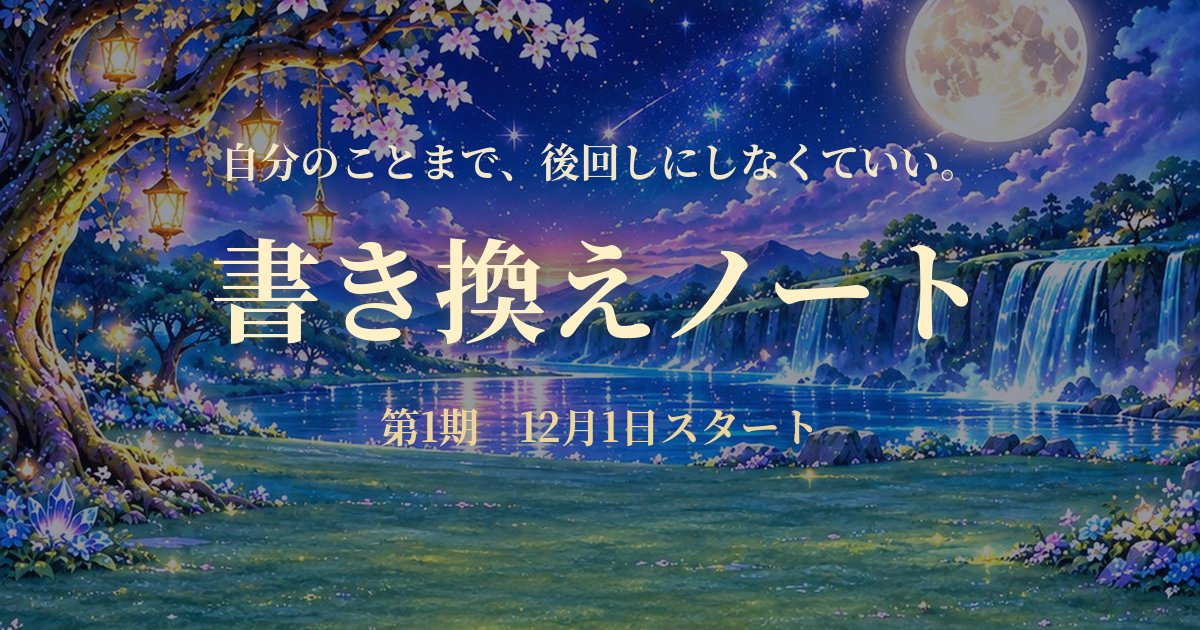
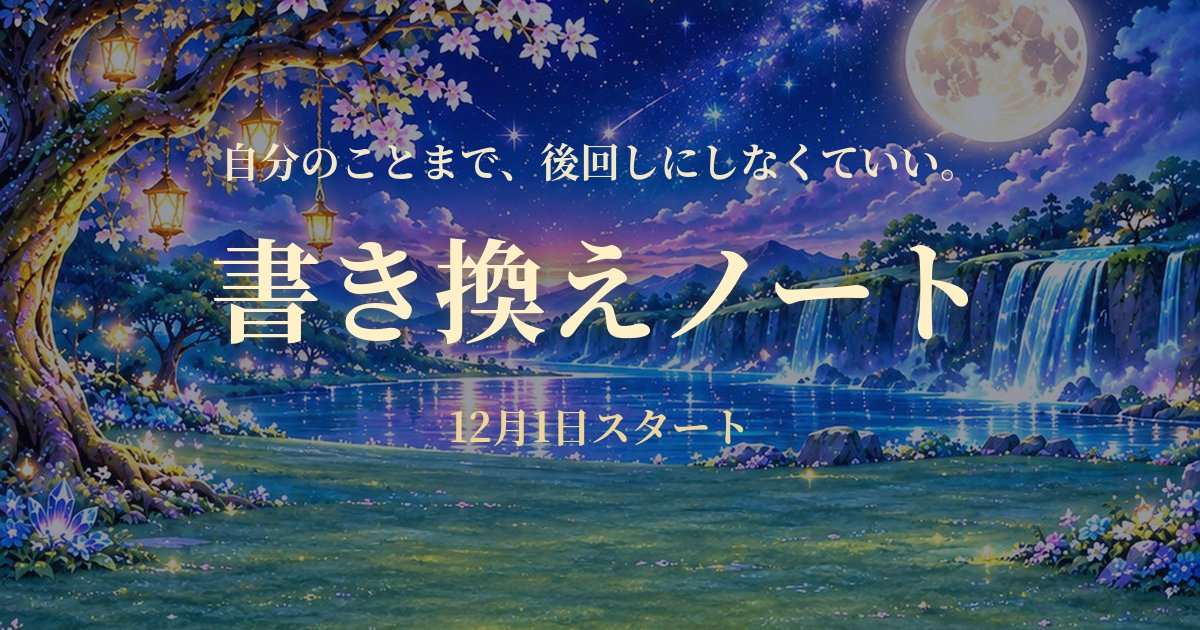
書き換えノートLP：タイトルから「第1期」を外す・動きを追加
Claude-Session: https://claude.ai/code/session_01PDibZtF5ddKHKAag87hAUW

Changed region(s): [[0.3083, 0.6333, 0.6783, 0.7238]]

diff --git a/kakikae-lp/index.html b/kakikae-lp/index.html
@@ -3,15 +3,16 @@
 <head>
 <meta charset="utf-8">
 <meta name="viewport" content="width=device-width, initial-scale=1, viewport-fit=cover">
-<title>書き換えノート 第1期｜12月1日から使える、あなたを取り戻すアプリ</title>
+<title>書き換えノート｜12月1日から使える、あなたを取り戻すアプリ</title>
 <meta name="description" content="毎日3行だけ書くアプリ「書き換えノート」。書いた3行にゆわのひと言が届き、毎日ひとつ「今日の小さなケア」が届きます。12月1日開始・申込締切11月30日。">
 <meta property="og:type" content="website">
-<meta property="og:title" content="書き換えノート 第1期｜あなたを取り戻すアプリ">
+<meta property="og:title" content="書き換えノート｜あなたを取り戻すアプリ">
 <meta property="og:description" content="1日たった3行。書いた3行に、ゆわのひと言が届きます。12月1日開始。">
 <meta property="og:image" content="https://yuwa-bloom-realm.github.io/next-story/kakikae-lp/images/ogp.jpg">
 <meta property="og:url" content="https://yuwa-bloom-realm.github.io/next-story/kakikae-lp/">
 <meta name="twitter:card" content="summary_large_image">
 <meta name="theme-color" content="#141733">
+<script>document.documentElement.classList.add('js')</script>
 <script src="../kakikae-note/config.js"></script>
 <style>
   :root{
@@ -111,6 +112,41 @@
   .done{display:none;text-align:center}
   .done .big{font-size:20px;color:var(--gold-d);margin-bottom:10px}
 
+
+  /* ---------- 動き ---------- */
+  .twinkles{position:absolute;inset:0;pointer-events:none}
+  .twinkles i{position:absolute;font-style:normal;font-size:var(--s);color:#fff3c9;text-shadow:0 0 8px rgba(255,236,170,.95),0 0 16px rgba(236,212,154,.6);
+    opacity:0;animation:twinkle 3.6s ease-in-out var(--d) infinite}
+  @keyframes twinkle{0%,100%{opacity:0;transform:scale(.4) rotate(0)}45%{opacity:1;transform:scale(1.1) rotate(20deg)}60%{opacity:.85;transform:scale(.9) rotate(30deg)}}
+  .js .page{opacity:0;transform:translateY(28px);transition:opacity .9s ease,transform .9s ease}
+  .js .page.show{opacity:1;transform:none}
+  .g .icon.sky{position:relative;overflow:hidden}
+  .sky b{position:absolute;width:3px;height:3px;border-radius:50%;background:#fff3c9;box-shadow:0 0 6px 1px rgba(255,236,170,.9);
+    opacity:0;transform:scale(.2);transition:opacity .6s ease,transform .6s ease}
+  .sky b.on{opacity:1;transform:scale(1)}
+  .sky b.big{width:5px;height:5px}
+  .sky.fade b{opacity:0;transition:opacity 1.2s ease}
+  .float{animation:floaty 3.6s ease-in-out infinite}
+  .float.f2{animation-delay:-1.8s}
+  @keyframes floaty{0%,100%{transform:translateY(0)}50%{transform:translateY(-5px)}}
+  .door-wrap{position:relative;display:block;width:84px;height:84px;border-radius:8px;overflow:hidden;cursor:pointer;
+    animation:doorGlow 2.8s ease-in-out infinite}
+  .door-wrap img{width:84px;height:84px;object-fit:cover}
+  .door-wrap::after{content:"";position:absolute;inset:-30%;background:linear-gradient(115deg,transparent 35%,rgba(255,240,190,.55) 50%,transparent 65%);
+    transform:translateX(-70%);animation:doorShine 3.4s ease-in-out infinite}
+  .door-wrap.tap{animation:doorTap .7s ease}
+  @keyframes doorGlow{0%,100%{box-shadow:0 0 0 1px rgba(201,164,92,.5),0 0 6px rgba(236,212,154,.35)}50%{box-shadow:0 0 0 1px rgba(236,212,154,.9),0 0 18px rgba(255,226,150,.85)}}
+  @keyframes doorShine{0%,55%{transform:translateX(-70%)}85%,100%{transform:translateX(70%)}}
+  @keyframes doorTap{0%{transform:scale(1);filter:brightness(1)}40%{transform:scale(1.08);filter:brightness(1.5)}100%{transform:scale(1);filter:brightness(1)}}
+  .cta{position:relative;overflow:hidden}
+  .cta::after{content:"";position:absolute;top:0;bottom:0;left:-40%;width:30%;transform:skewX(-20deg);
+    background:linear-gradient(90deg,transparent,rgba(255,255,255,.85),transparent);animation:ctaShine 4.5s ease-in-out infinite}
+  @keyframes ctaShine{0%,70%{left:-40%}88%,100%{left:120%}}
+  @media (prefers-reduced-motion: reduce){
+    .twinkles i,.float,.door-wrap,.door-wrap::after,.cta::after{animation:none}
+    .twinkles i{opacity:.8}
+    .js .page{opacity:1;transform:none;transition:none}
+  }
   footer{text-align:center;color:rgba(236,212,154,.7);font-size:12px;letter-spacing:.1em;padding:14px 0 30px}
 </style>
 </head>
@@ -120,6 +156,13 @@
   <!-- トップ -->
   <header class="hero">
     <div class="stars"></div>
+    <div class="twinkles" aria-hidden="true">
+      <i style="left:6%;top:9%;--d:0s;--s:16px">✦</i><i style="left:90%;top:6%;--d:.8s;--s:12px">✦</i>
+      <i style="left:82%;top:34%;--d:1.6s;--s:18px">✦</i><i style="left:10%;top:42%;--d:2.3s;--s:11px">✦</i>
+      <i style="left:50%;top:3%;--d:1.1s;--s:10px">✧</i><i style="left:94%;top:60%;--d:.4s;--s:13px">✧</i>
+      <i style="left:3%;top:70%;--d:1.9s;--s:14px">✧</i><i style="left:70%;top:82%;--d:2.7s;--s:10px">✦</i>
+      <i style="left:28%;top:88%;--d:.2s;--s:12px">✦</i><i style="left:38%;top:20%;--d:3.1s;--s:9px">✧</i>
+    </div>
     <img class="top-img" id="topImg" src="images/top.jpg" alt="書き換えノート　自分のことまで、後回しにしなくていい。来年の私に、12月から魔法をかけよう。"
       onerror="this.remove();document.getElementById('fallback').hidden=false">
     <div class="fallback" id="fallback" hidden>
@@ -128,7 +171,7 @@
       <p class="sub">来年の私に、12月から魔法をかけよう。</p>
     </div>
     <p class="sub" style="margin-top:22px">12月1日から使える、あなただけの、<br>あなたを取り戻すアプリ。</p>
-    <span class="badge">第1期　12月1日（火）スタート</span>
+    <span class="badge">12月1日（火）スタート</span>
   </header>
 
   <!-- 問いかけ -->
@@ -166,10 +209,10 @@
     <p class="orn">✦ ✦ ✦</p>
     <h2>続けたくなる、しかけ</h2>
     <div class="gimmick">
-      <div class="g"><div class="icon">✦</div><p>書いた日が増えるたび、星空に星が増えていく。</p></div>
-      <div class="g"><img src="../kakikae-note/images/puzzle_01.png" alt="" loading="lazy"><p>パズルが完成するたび、絵の中の住人から手紙が届く（全16通）。</p></div>
-      <div class="g"><img src="../kakikae-note/images/town/b02.webp" alt="" loading="lazy" style="object-fit:contain;background:radial-gradient(ellipse at 50% 120%,#2e3576,#141733)"><p>パズルの完成で建物が増えて、「あなただけの小さな街」が育っていく。</p></div>
-      <div class="g"><img src="../kakikae-note/images/doors/door_01.png" alt="" loading="lazy"><p>節目の日には「秘密の扉」が開いて、短い物語と宝物が待っている。</p></div>
+      <div class="g"><div class="icon sky" id="skyIcon" aria-hidden="true"></div><p>書いた日が増えるたび、星空に星が増えていく。</p></div>
+      <div class="g"><img class="float" src="../kakikae-note/images/puzzle_01.png" alt="" loading="lazy"><p>パズルが完成するたび、絵の中の住人から手紙が届く（全16通）。</p></div>
+      <div class="g"><img class="float f2" src="../kakikae-note/images/town/b02.webp" alt="" loading="lazy" style="object-fit:contain;background:radial-gradient(ellipse at 50% 120%,#2e3576,#141733)"><p>パズルの完成で建物が増えて、「あなただけの小さな街」が育っていく。</p></div>
+      <div class="g"><span class="door-wrap" id="doorWrap"><img src="../kakikae-note/images/doors/door_01.png" alt="" loading="lazy"></span><p>節目の日には「秘密の扉」が開いて、短い物語と宝物が待っている。</p></div>
     </div>
     <p class="center" style="margin-top:18px"><span class="em">休んでも、集めたものは消えません。</span></p>
   </section>
@@ -235,7 +278,7 @@
       <p class="soft" style="font-size:14px">メールが届かないときは、迷惑メールのフォルダも見てみてください。</p>
     </div>
     <div class="done" id="closed">
-      <p class="big">第1期の受付は終了しました</p>
+      <p class="big">今回の受付は終了しました</p>
       <p>たくさんのお申し込み、ありがとうございました。<br>次回のご案内を、楽しみに待っていてくださいね。</p>
     </div>
   </section>
@@ -247,6 +290,50 @@
 (function(){
   const $ = s => document.querySelector(s);
   const CFG = window.KAKIKAE_CONFIG || {};
+
+
+  // ---------- 動き ----------
+  document.documentElement.classList.add('js');
+  const reduce = window.matchMedia('(prefers-reduced-motion: reduce)').matches;
+  // セクションがふわっと浮かぶ
+  const pages = Array.from(document.querySelectorAll('.page'));
+  if (reduce) pages.forEach(p => p.classList.add('show'));
+  else {
+    // 画面に入ったら表示（どのブラウザでも必ず出るように、スクロールと時間の両方で確かめる）
+    const check = () => {
+      const h = window.innerHeight || document.documentElement.clientHeight;
+      pages.forEach(p => { if (!p.classList.contains('show') && p.getBoundingClientRect().top < h * 0.9) p.classList.add('show'); });
+    };
+    window.addEventListener('scroll', check, { passive: true });
+    window.addEventListener('resize', check);
+    window.addEventListener('load', check);
+    requestAnimationFrame(check); setInterval(check, 700);
+  }
+  // 星空：星がひとつずつ増えていく
+  const sky = $('#skyIcon');
+  if (sky) {
+    const N = 22, stars = [];
+    let seed = 7; const rnd = () => (seed = (seed * 9301 + 49297) % 233280) / 233280;
+    for (let i = 0; i < N; i++) {
+      const b = document.createElement('b');
+      b.style.left = (8 + rnd() * 84) + '%'; b.style.top = (8 + rnd() * 84) + '%';
+      if (i % 7 === 6) b.className = 'big';
+      sky.appendChild(b); stars.push(b);
+    }
+    if (reduce) stars.forEach(b => b.classList.add('on'));
+    else {
+      let k = 0;
+      setInterval(() => {
+        if (k < N) { stars[k++].classList.add('on'); }
+        else if (k === N) { k++; }
+        else { sky.classList.add('fade'); stars.forEach(b => b.classList.remove('on'));
+          setTimeout(() => sky.classList.remove('fade'), 1300); k = 0; }
+      }, 420);
+    }
+  }
+  // 秘密の扉：タップでキラッ
+  const door = $('#doorWrap');
+  if (door) door.addEventListener('click', () => { door.classList.remove('tap'); void door.offsetWidth; door.classList.add('tap'); });
 
   // 締切（11月30日 24時・日本時間）を過ぎたら、フォームを閉じる
   const CLOSE = Date.parse('2026-12-01T00:00:00+09:00');
